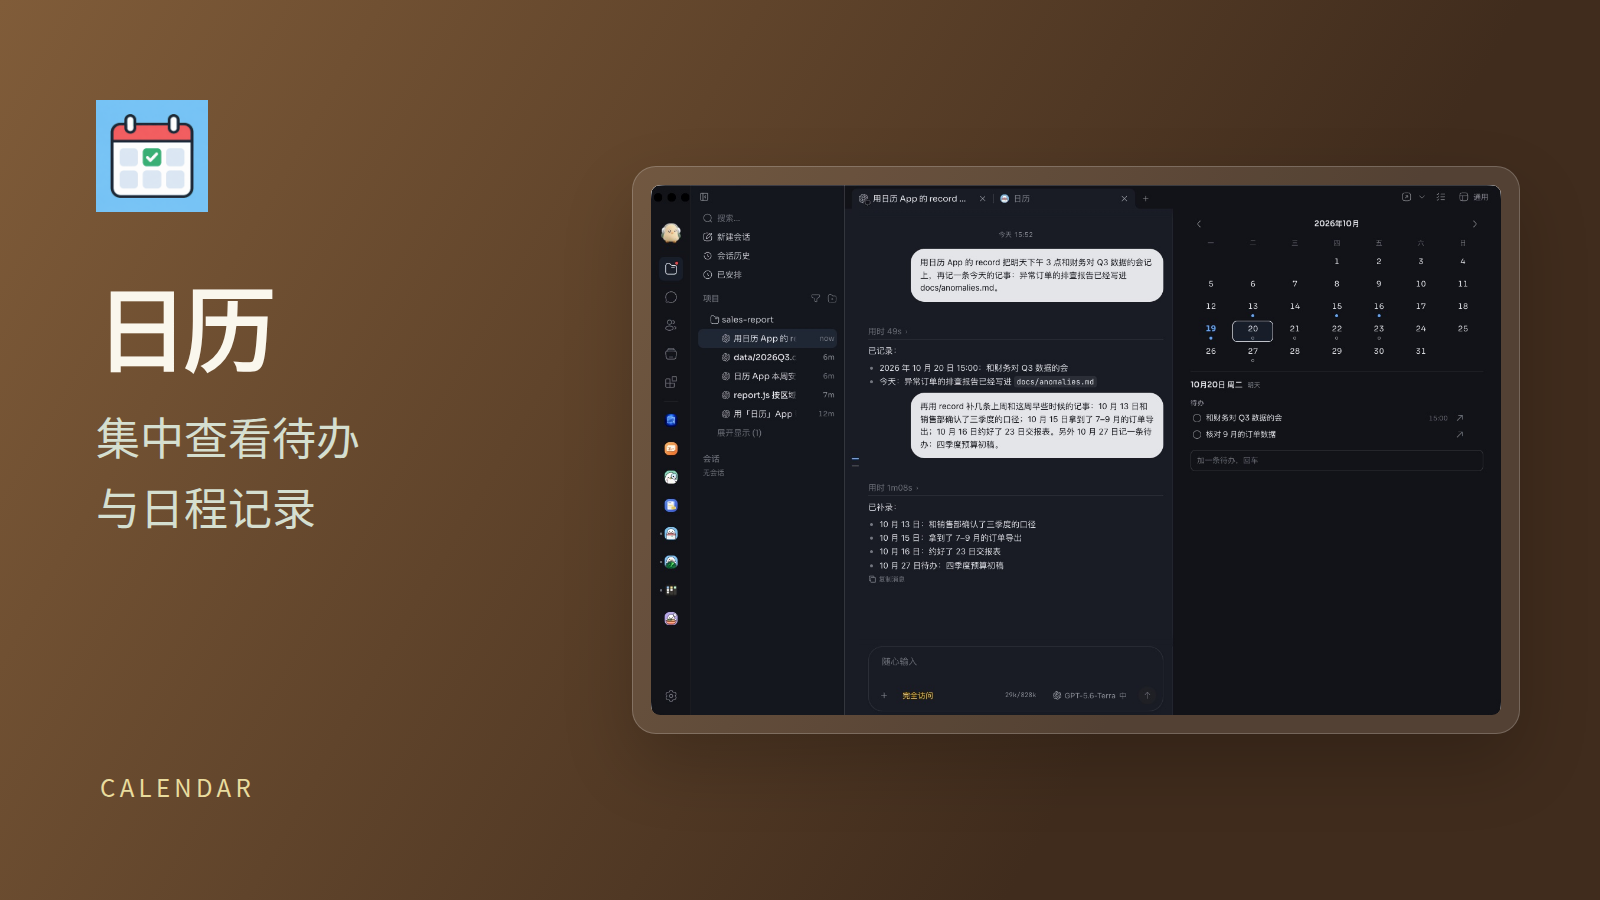
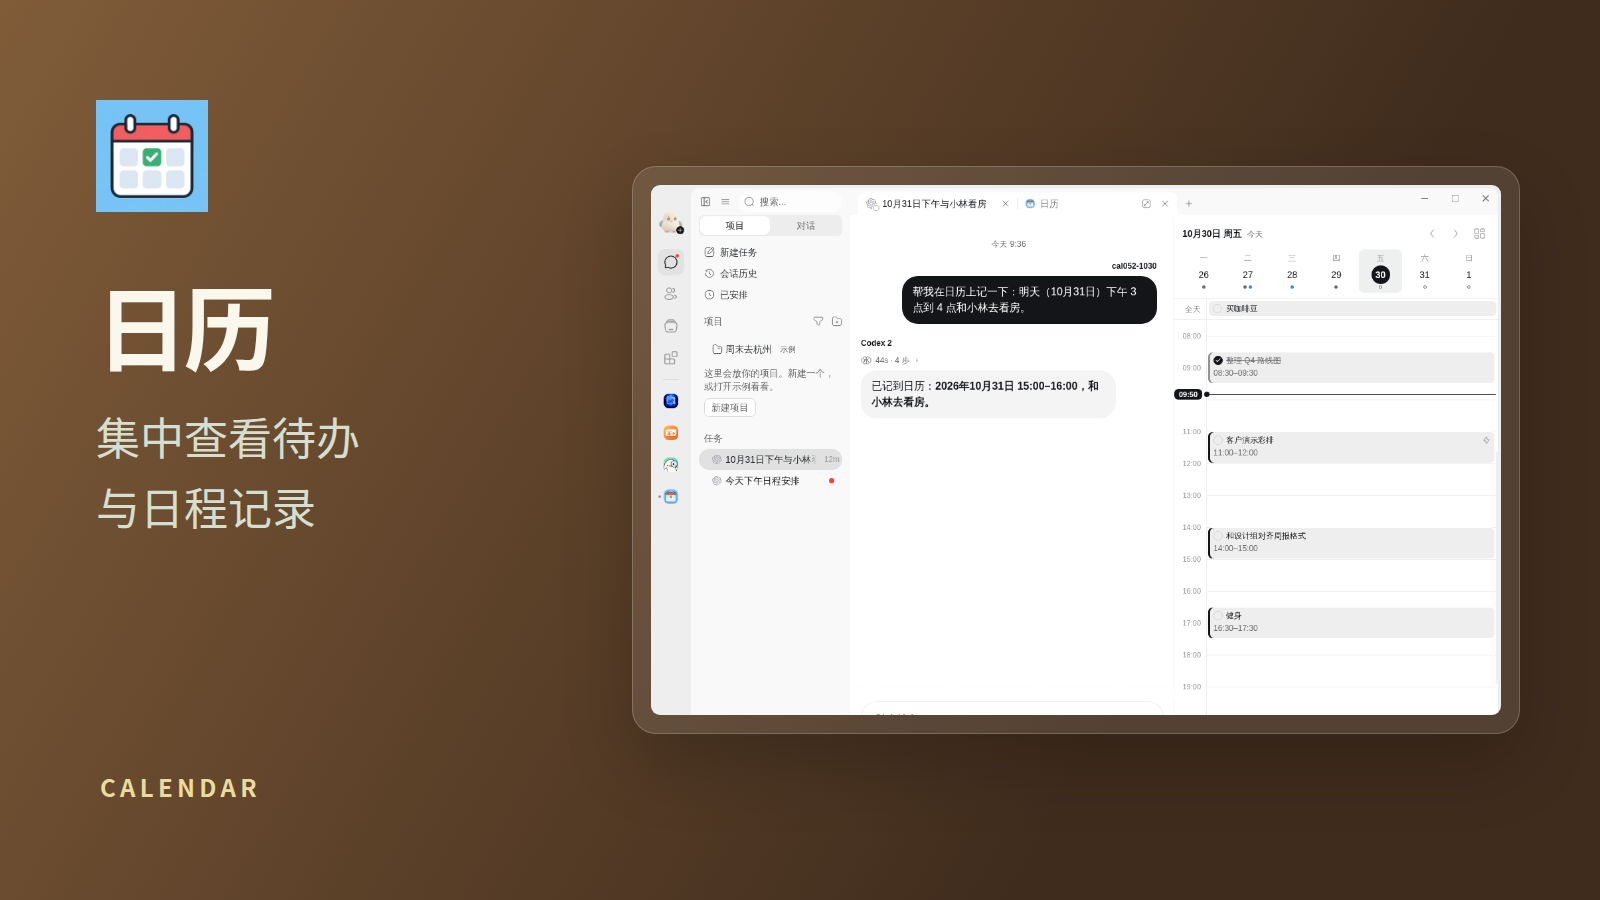
Calendar 0.5.5: in-client market images of the time axis, promo re-rendered

diff --git a/scripts/promo/day-calendar.html b/scripts/promo/day-calendar.html
@@ -52,7 +52,7 @@
       <p class="message">集中查看待办<br />与日程记录</p>
     </div>
     <figure class="product" aria-label="日历真实界面截图">
-      <div class="screen"><img src="../../sources/day-calendar/screenshots/1.jpg" alt="日历已发布的真实产品画面" /></div>
+      <div class="screen"><img src="../../sources/day-calendar/screenshots/side.png" alt="日历已发布的真实产品画面" /></div>
     </figure>
     <p class="name-en">CALENDAR</p>
   </main>

diff --git a/scripts/promo/README.md b/scripts/promo/README.md
@@ -8,14 +8,14 @@ To add an App, copy a template and replace the icon, name, benefit, screenshot p
 
 ## Screenshot sources
 
-All product images below already existed in the corresponding App before this artwork change, except Context, whose screenshots were taken for its 0.1.1 listing from a real project report with paths and machine names replaced, and Paper Club, whose screenshots were retaken for 0.3.9 to show the reworked reader (see its `screenshots/SOURCE.md`). Only their placement inside the promotional frame is new.
+All product images below already existed in the corresponding App before this artwork change, except Context, whose screenshots were taken for its 0.1.1 listing from a real project report with paths and machine names replaced, Paper Club, whose screenshots were retaken for 0.3.9 to show the reworked reader, and Calendar, whose screenshots were retaken in the client for 0.5.5 to show the time axis (see each App's `screenshots/SOURCE.md`). Only their placement inside the promotional frame is new.
 
 | Template | Product screenshot, relative to package root | SHA-256 |
 | --- | --- | --- |
[8 lines of base64/hex data omitted]

diff --git a/sources/day-calendar/screenshots/SOURCE.md b/sources/day-calendar/screenshots/SOURCE.md
@@ -1,5 +1,8 @@
 # Market media sources
 
-`week.png` is a capture of Calendar 0.5.1 in gugu's desktop client on Linux: a full tab in the week view, light theme, 1280 × 900. It was taken in a test account during the 0.5.x native run, with entries that people and an agent recorded for the example. The interface was not redrawn.
+`side.png`, `side-dark.png`, `week.png` and `week-dark.png` are captures of Calendar 0.5.4 in gugu's desktop client on Linux, 1280 × 900, light and dark (host and App both in the dark theme). They were taken in a test account during the 0.5.x native run. The interface was not redrawn.
 
-`1.jpg` and `2.jpg` show the side panel of Calendar 0.4.x; they will be replaced by 0.5 side-panel captures. `promo.png` is `scripts/promo/day-calendar.html` with `1.jpg` as its product image, unchanged. `icon.png` is unchanged.
+- `side.png` / `side-dark.png`: a task where the person asks an agent to put a viewing on tomorrow's calendar and the agent records it with `record`; the calendar is open in the task's side panel on today.
+- `week.png` / `week-dark.png`: the calendar as a full tab in the week view, opening at 07:30. The entries were recorded for the example by the person and by an agent.
+
+`promo.png` is `scripts/promo/day-calendar.html` rendered at 1600 × 900, device scale 1, with `side.png` as its product image. `icon.png` is unchanged.

diff --git a/sources/day-calendar/README.md b/sources/day-calendar/README.md
@@ -2,9 +2,10 @@
 
 # 日历
 
-![在任务中让 agent 用日历记下会议，右侧日历同步显示当天的待办](screenshots/1.jpg)
-![另一个任务记下的记事与手动勾选的待办汇总在同一天](screenshots/2.jpg)
+![在任务里让 agent 记下明天下午的看房，右侧栏是今天的时间轴](screenshots/side.png)
+![深色下的侧栏：周条、全天、时间轴与现在线](screenshots/side-dark.png)
 ![整页打开是一周：左边小月历和图例，时间轴上按钟点排开待办与记事，agent 记的带 ⚡](screenshots/week.png)
+![深色下的周视图](screenshots/week-dark.png)
 
 按时间轴看的日历。任务页右侧栏里是一天：上面一行这一周，下面是从早到晚的时间轴；整页打开是一周，左边一个小月历。
 

diff --git a/sources/day-calendar/CHANGELOG.md b/sources/day-calendar/CHANGELOG.md
@@ -1,5 +1,9 @@
 # Changelog
 
+## 0.5.5
+
+- Market: in-client captures of 0.5.4 replace the 0.4 images: the side panel beside an agent's `record` turn (light and dark) and the week view (light and dark); the promotional image is re-rendered with the side panel. No code change.
+
 ## 0.5.4
 
 - Where the time axis opens on a range with today: an hour before today's first timed entry (an hour before now when there is none), not earlier than 07:00, and the line of now always on screen when the two disagree. Before, it opened five and a half hours before now, which at 09:00 meant a screen of empty early morning.
